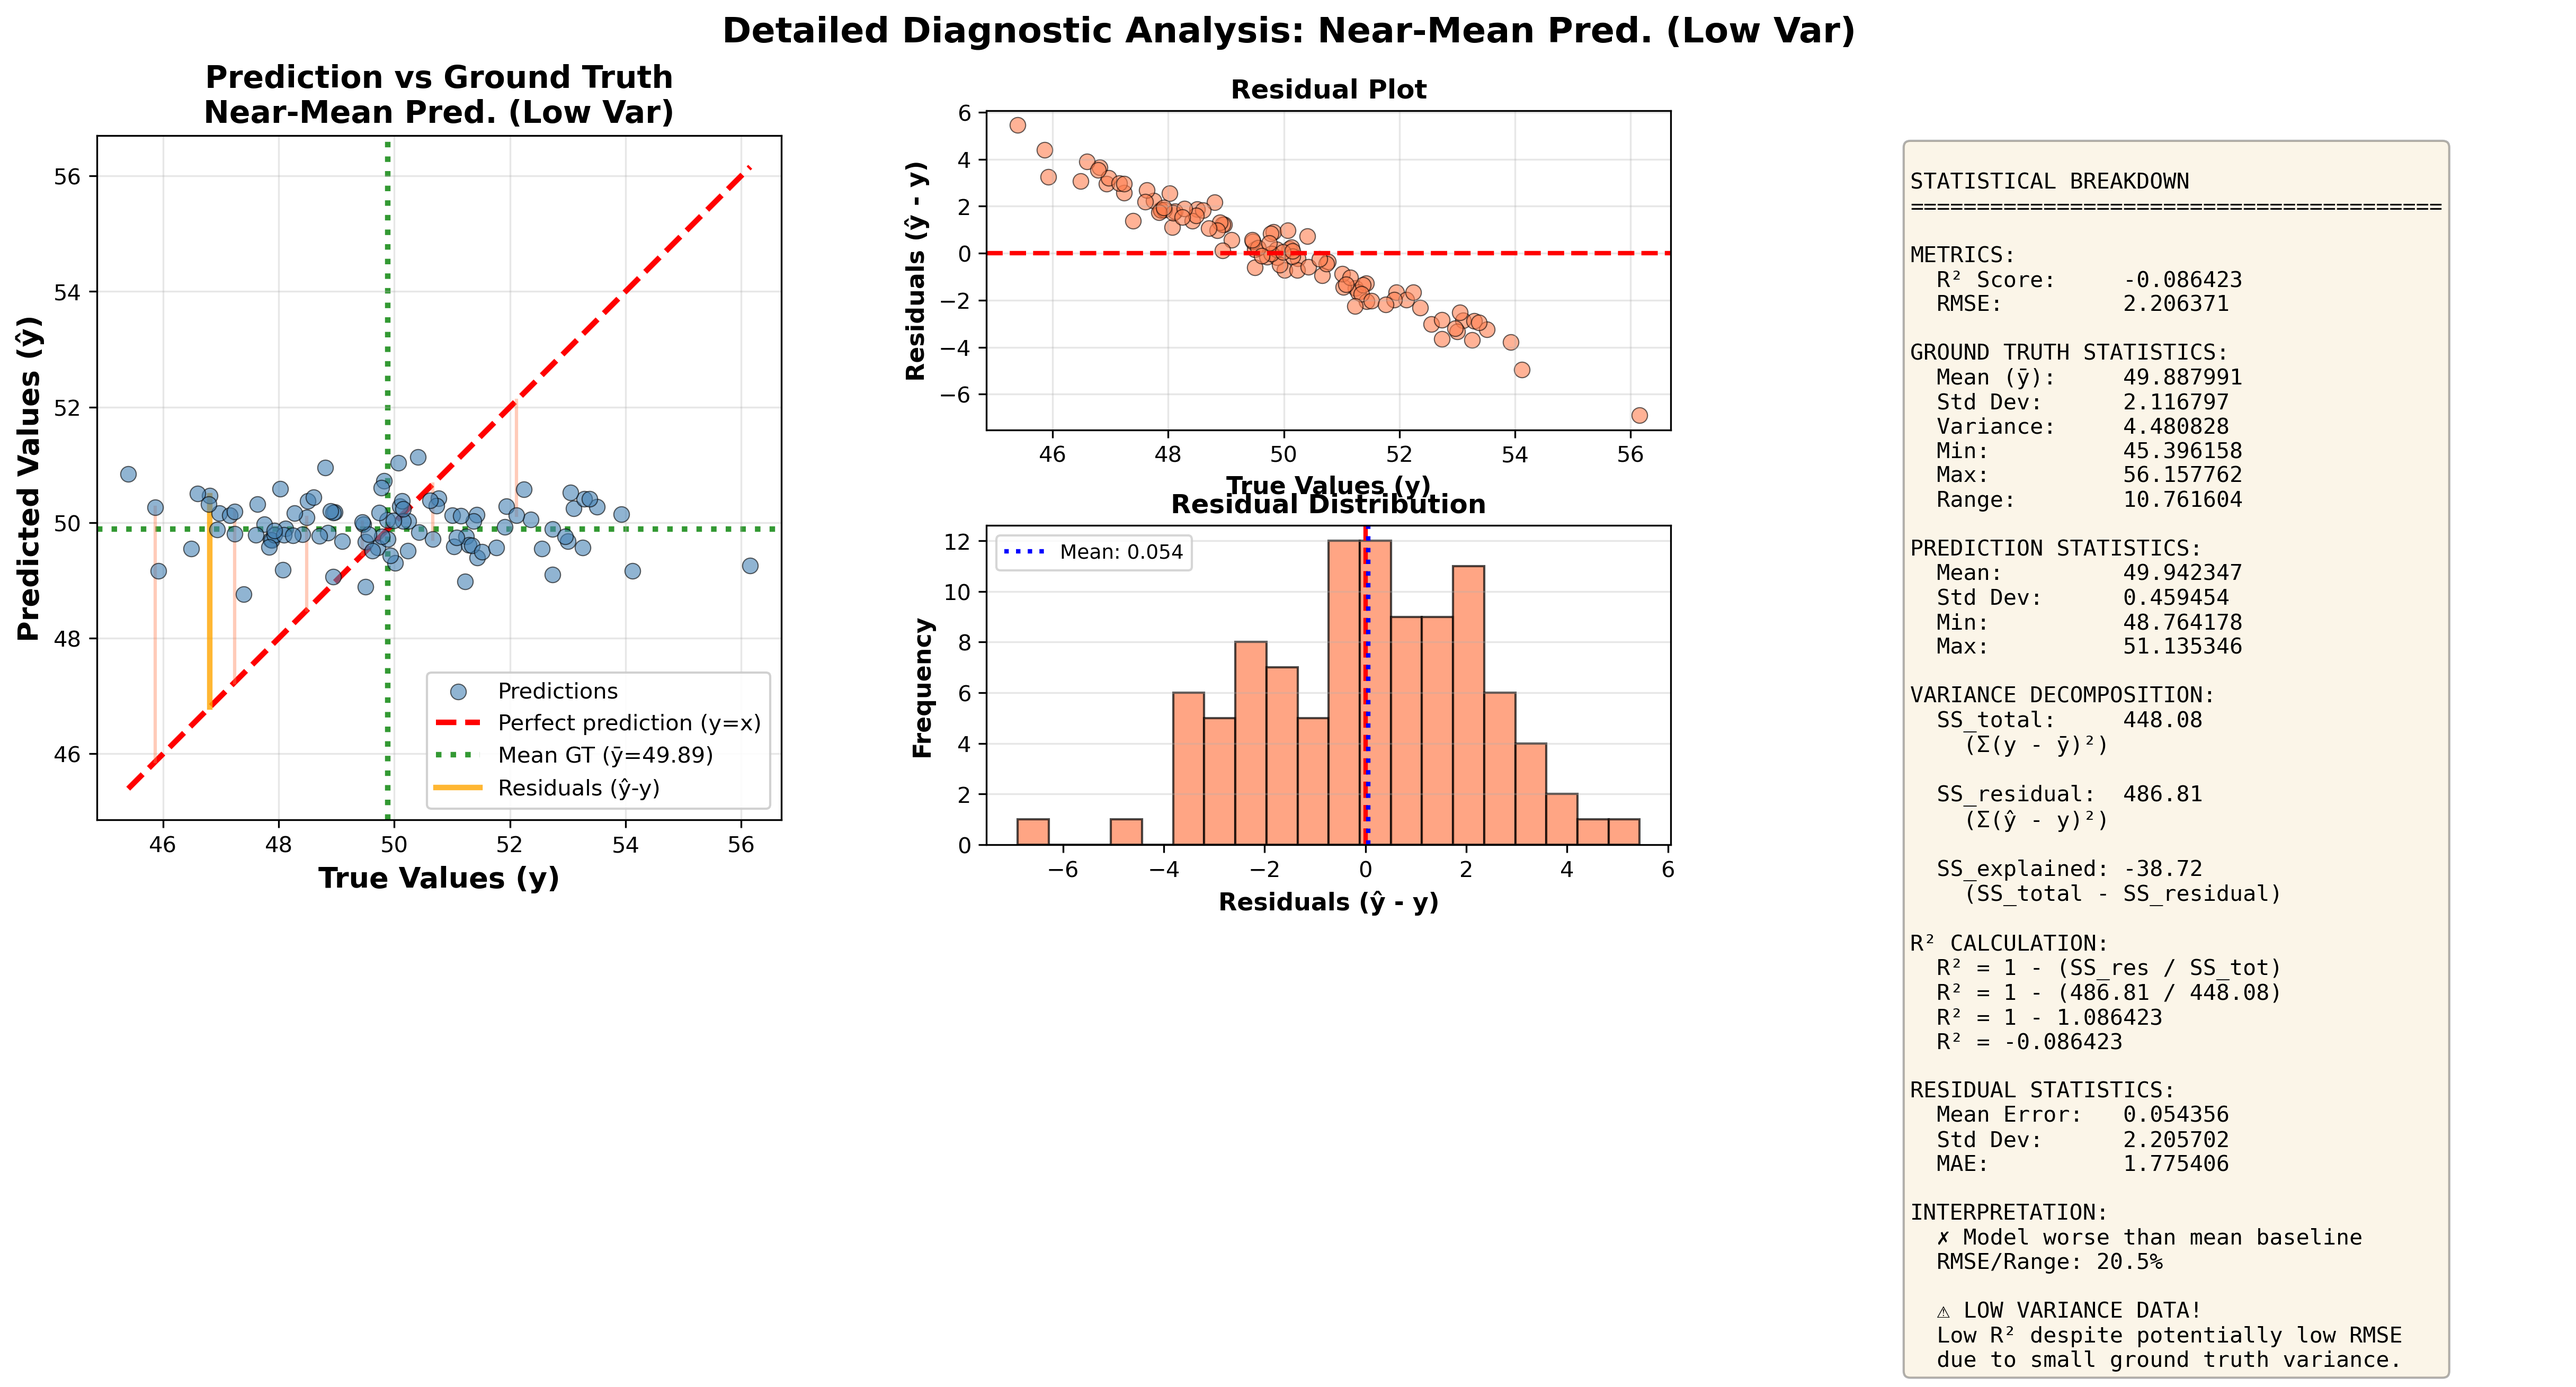
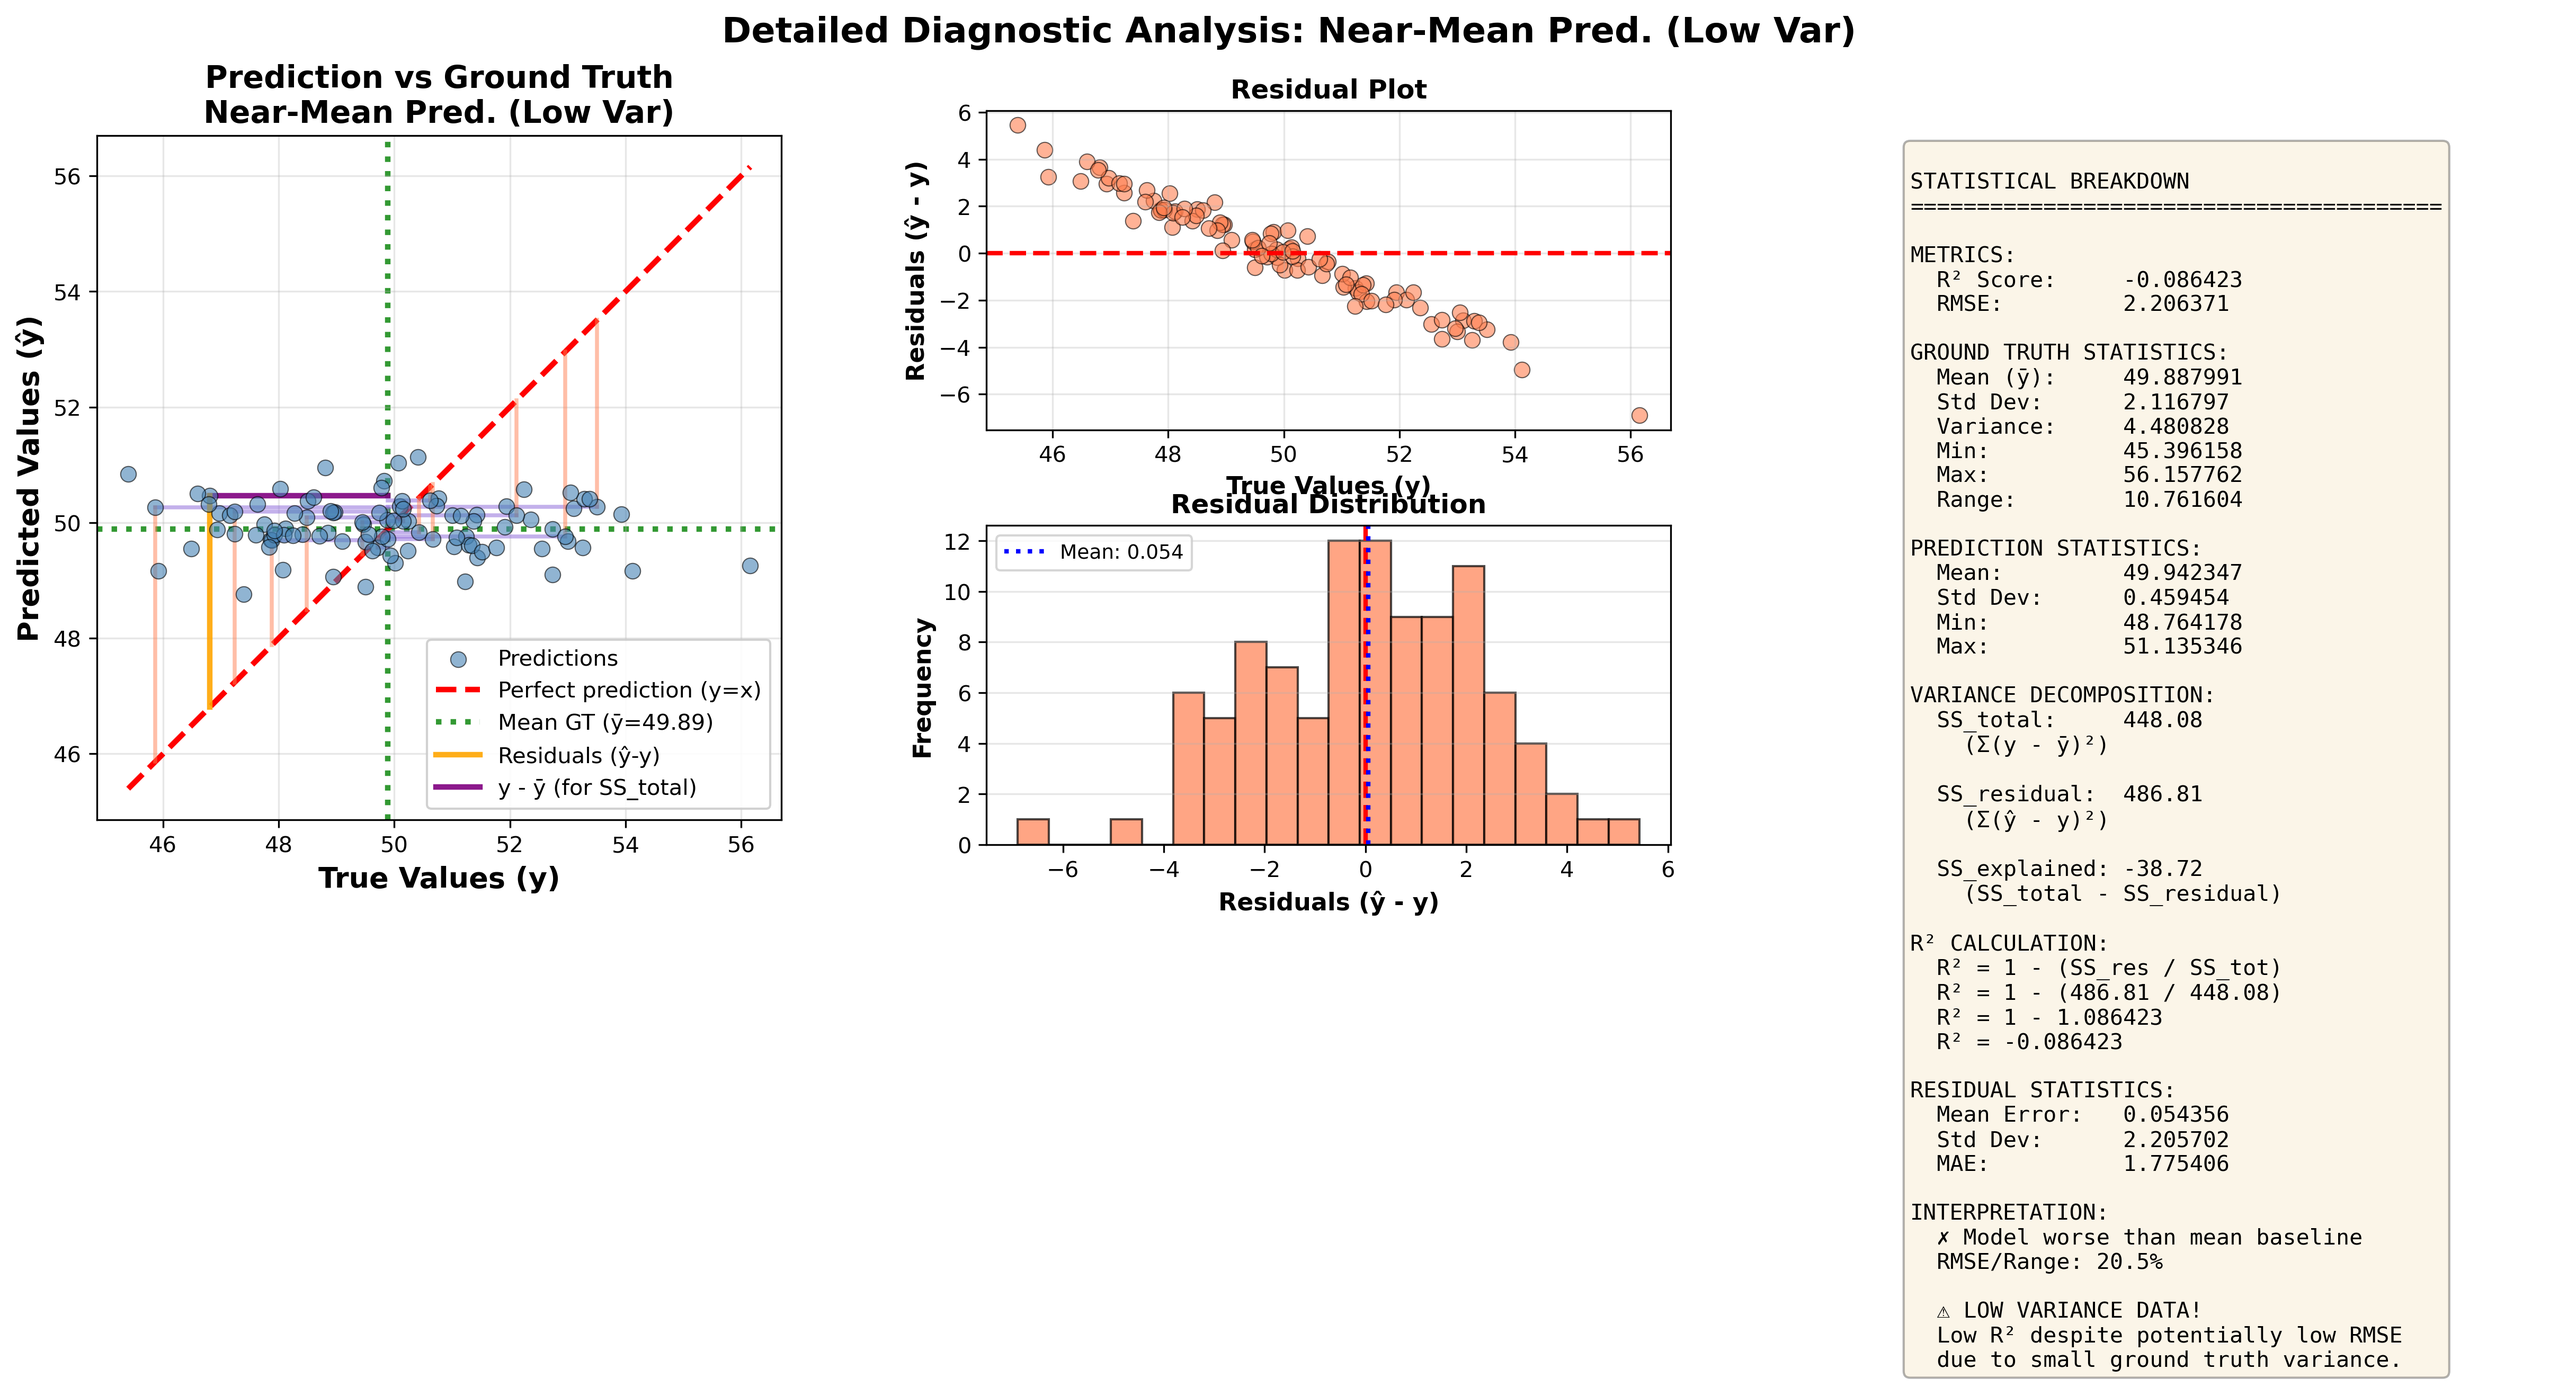
Improve diagnostic plot visibility: increase SS_total line samples (8->15) and alpha (0.3->0.55), remove redundant script

Changed region(s): [[0.1553, 0.4639, 0.2795, 0.5876], [0.0621, 0.2784, 0.2484, 0.4021]]

diff --git a/investigate_r_score_rmse_synergy.py b/investigate_r_score_rmse_synergy.py
@@ -259,7 +259,7 @@ def create_comprehensive_visualization(scenarios: List[Dict]) -> None:
     output_path = PLOTS_DIR / 'scenario_comparison_r2_vs_rmse.png'
     plt.savefig(output_path, dpi=300, bbox_inches='tight')
     print(f"Saved: {output_path}")
-    plt.show()
+    plt.close(fig)  # Close instead of show for non-interactive mode
 
 
 def create_detailed_diagnostic_plot(scenario: Dict) -> plt.Figure:
@@ -298,16 +298,27 @@ def create_detailed_diagnostic_plot(scenario: Dict) -> plt.Figure:
                label=f'Mean GT (ȳ={y_mean:.2f})', alpha=0.8, zorder=1)
     ax1.axvline(x=y_mean, color='green', linestyle=':', linewidth=2.5, alpha=0.8, zorder=1)
     
-    # Show residuals for sample points
-    sample_indices = np.linspace(0, len(y_true)-1, min(8, len(y_true)), dtype=int)
+    # Show residuals for sample points (vertical lines showing prediction errors)
+    # Use more samples for better visibility
+    sample_indices = np.linspace(0, len(y_true)-1, min(15, len(y_true)), dtype=int)
     for i, idx in enumerate(sample_indices):
         color = 'orange' if i == 0 else 'coral'
-        alpha = 0.8 if i == 0 else 0.4
-        linewidth = 2.5 if i == 0 else 1.5
+        alpha = 0.9 if i == 0 else 0.5
+        linewidth = 2.5 if i == 0 else 1.8
         label = 'Residuals (ŷ-y)' if i == 0 else None
-        # Vertical line from point to y=x line
+        # Vertical line from point to y=x line (showing residual)
         ax1.plot([y_true[idx], y_true[idx]], [y_pred[idx], y_true[idx]], 
                color=color, linewidth=linewidth, alpha=alpha, zorder=4, label=label)
+    
+    # Show distance from true values to mean (horizontal lines showing SS_total components)
+    for i, idx in enumerate(sample_indices):
+        color = 'purple' if i == 0 else 'mediumpurple'
+        alpha = 0.9 if i == 0 else 0.55  # Increased alpha for better visibility
+        linewidth = 2.5 if i == 0 else 1.8
+        label = 'y - ȳ (for SS_total)' if i == 0 else None
+        # Horizontal line from true value to mean line (showing deviation from mean)
+        ax1.plot([y_true[idx], y_mean], [y_pred[idx], y_pred[idx]], 
+               color=color, linewidth=linewidth, alpha=alpha, zorder=3, label=label)
     
     ax1.set_xlabel('True Values (y)', fontsize=13, fontweight='bold')
     ax1.set_ylabel('Predicted Values (ŷ)', fontsize=13, fontweight='bold')
@@ -489,7 +500,7 @@ def create_rmse_r2_heatmap(n_points: int = 50) -> None:
     output_path = PLOTS_DIR / 'variance_noise_impact_heatmap.png'
     plt.savefig(output_path, dpi=300, bbox_inches='tight')
     print(f"Saved: {output_path}")
-    plt.show()
+    plt.close(fig)  # Close instead of show for non-interactive mode
 
 
 def create_summary_table(scenarios: List[Dict]) -> pd.DataFrame:
